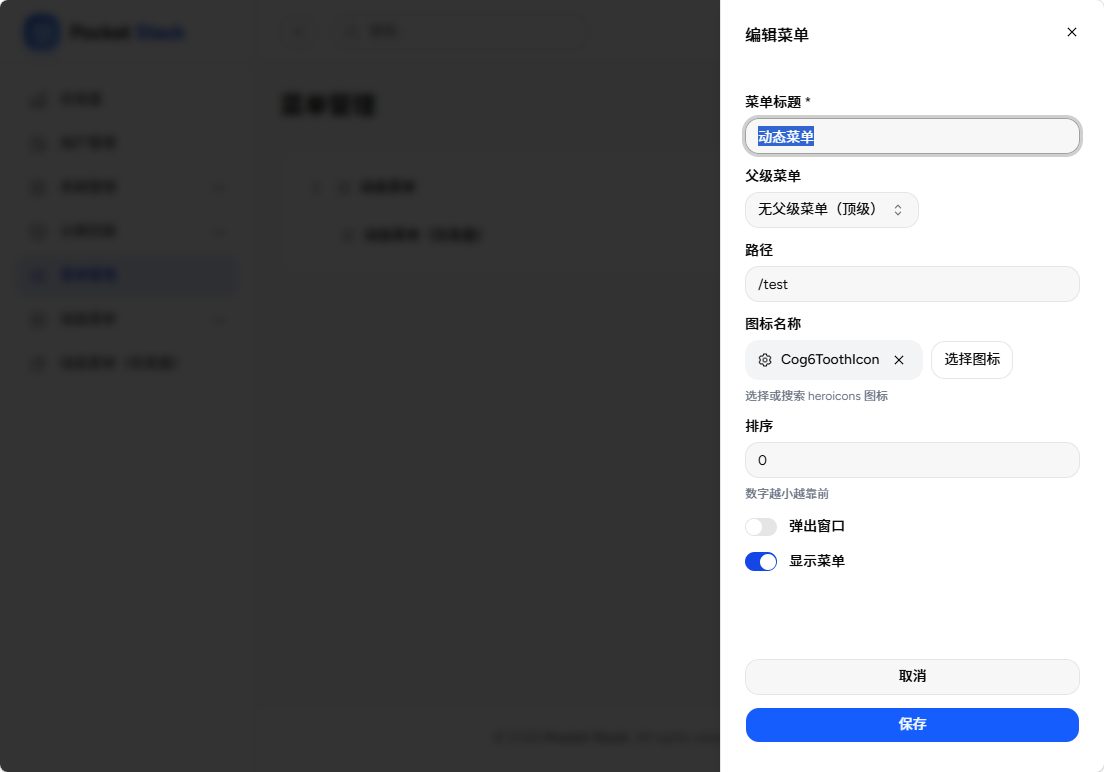
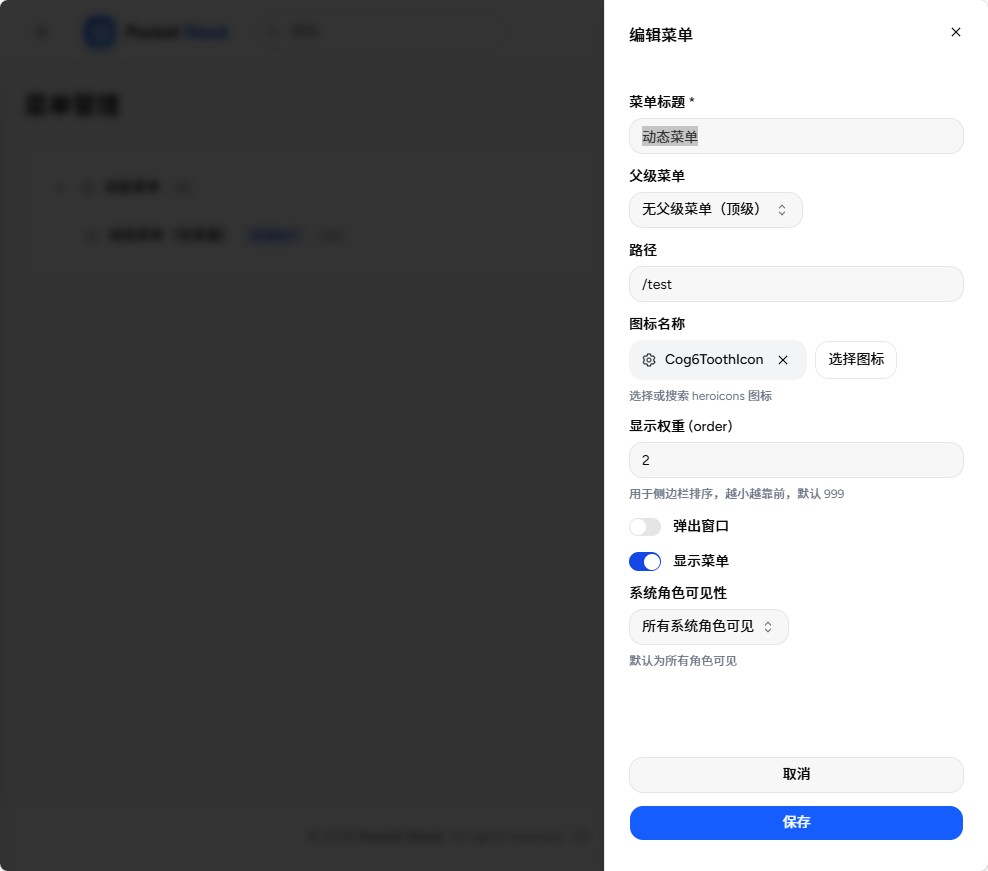
docs: add menu module docs and navigation entry
补充了菜单模块的完整文档内容，包括功能特性、数据集结构、显示规则和使用说明，并在侧边导航栏添加了菜单模块的入口链接。

diff --git a/docs/.vitepress/config.ts b/docs/.vitepress/config.ts
@@ -53,6 +53,7 @@ export default {
         items: [
           { text: '初始化和模块管理', link: '/初始化和模块管理' },
           { text: '示例模块', link: '/示例模块' },
+          { text: '菜单模块', link: '/modules/menu' },
           { text: '系统设置模块', link: '/modules/settings' },
           { text: '用户管理模块', link: '/modules/user' },
         ]

diff --git a/docs/modules/menu.md b/docs/modules/menu.md
@@ -1,18 +1,62 @@
 # 菜单管理模块
 
-PocketStack 的[菜单定义机制](/菜单定义.html)主要依靠模块中的`menu.ts`文件定义。该方案尤其适合 vibe coding 开发场景。缺点是一旦程序构建完成，菜单配置就无法动态修改了。
+PocketStack 的菜单定义机制主要依靠模块中的 `menu.ts` 文件定义。该方案适合 vibe coding 开发场景，但程序构建完成后菜单配置无法动态修改。
 
-本模块弥补了这一缺陷，提供基于数据库的菜单动态管理和配置功能。
+本模块弥补了这一缺陷，提供基于数据库的菜单动态管理和配置功能，并与系统「设置 → 菜单设置」配合，实现自定义菜单的合并与实时同步。
 
 ## 功能特性
 
-- **树形结构展示**：支持二级嵌套的菜单结构
-- **拖拽排序**：通过排序字段调整菜单顺序
+- **树形结构展示**：支持二级嵌套结构，支持展开/折叠
+- **排序控制**：通过 `order` 字段控制菜单显示顺序（越小越靠前，默认 999）
+- **角色可见性**：通过统一的可见性选择器控制菜单对不同角色的可见性
 - **图标选择**：集成 Heroicons 图标选择器
-- **外部链接**：支持跳转到外部 URL
-- **显示/隐藏**：可控制菜单项是否在侧边栏显示
+- **外部链接**：支持跳转到外部 URL（新窗口打开）
+- **显示/隐藏**：可控制菜单项是否在侧边栏显示（保留数据但不渲染）
+- **徽章展示**：列表中以彩色徽章显示菜单属性（隐藏 / 管理员 / 普通用户 / 外链 / #order）
+- **缓存机制**：修改菜单后自动清除缓存，确保侧边栏实时刷新
 
-## 模块安装
+## 数据集
+
+### `system_menu`
+
+存储菜单项数据，主要字段：
+
+| 字段         | 类型     | 必填 | 说明                                                       |
+| ------------ | -------- | ---- | ---------------------------------------------------------- |
+| `title`      | text     | 是   | 菜单标题                                                   |
+| `parent`     | relation | 否   | 父菜单 ID（自关联，实现层级结构）                          |
+| `path`       | text     | 否   | 路由路径                                                   |
+| `icon`       | text     | 否   | heroicons 图标名称（来自 24/outline）                      |
+| `order`      | number   | 否   | 排序权重，越小越靠前，默认 999                             |
+| `external`   | bool     | 否   | 是否为外部链接（在新窗口打开）                             |
+| `show`       | bool     | 否   | 是否在侧边栏显示                                           |
+| `userOnly`   | bool     | 否   | 仅普通用户可见（由可见性选择器自动设置）                   |
+| `adminOnly`  | bool     | 否   | 仅管理员可见（由可见性选择器自动设置）                     |
+| `created`    | autodate | -   | 创建时间（自动）                                           |
+| `updated`    | autodate | -   | 更新时间（自动）                                           |
+
+## 菜单显示规则
+
+### 生效条件
+
+1. 需要在「设置 → 菜单设置」中开启「启用自定义菜单」开关
+2. 数据集菜单不会自动渲染，必须通过设置开关激活
+
+### 合并策略
+
+- **自定义菜单不覆盖默认模块菜单**，而是追加在模块菜单之后
+- 自定义菜单按 `order` 字段排序
+- 根据当前用户角色应用 `adminOnly` / `userOnly` 过滤
+
+### 与模块管理的协作
+
+- 可通过「模块管理」中的「显示菜单」开关隐藏指定模块的菜单
+- 关闭模块菜单后，该模块的菜单不会显示，但自定义菜单不受影响
+- 如需完全使用自定义菜单，应在「模块管理」中关闭所有模块的「显示菜单」开关
+
+## 使用说明
+
+### 模块安装
 
 1. 将 `menu` 目录复制到 `src/modules` 目录下
 2. 将 `src/modules/menu/migrations/menu_items.json` 文件导入到 pocketbase 中。
@@ -35,5 +79,5 @@ PocketStack 的[菜单定义机制](/菜单定义.html)主要依靠模块中的`
 
 ### 菜单的显示规则
 
-1. 只有打开了`显示菜单`开关的表单项才能在侧边栏显示。
+1. 只有打开了`系统设置->显示菜单`开关的表单项才能在侧边栏显示。
 2. 动态菜单会在模块菜单下面展示。
